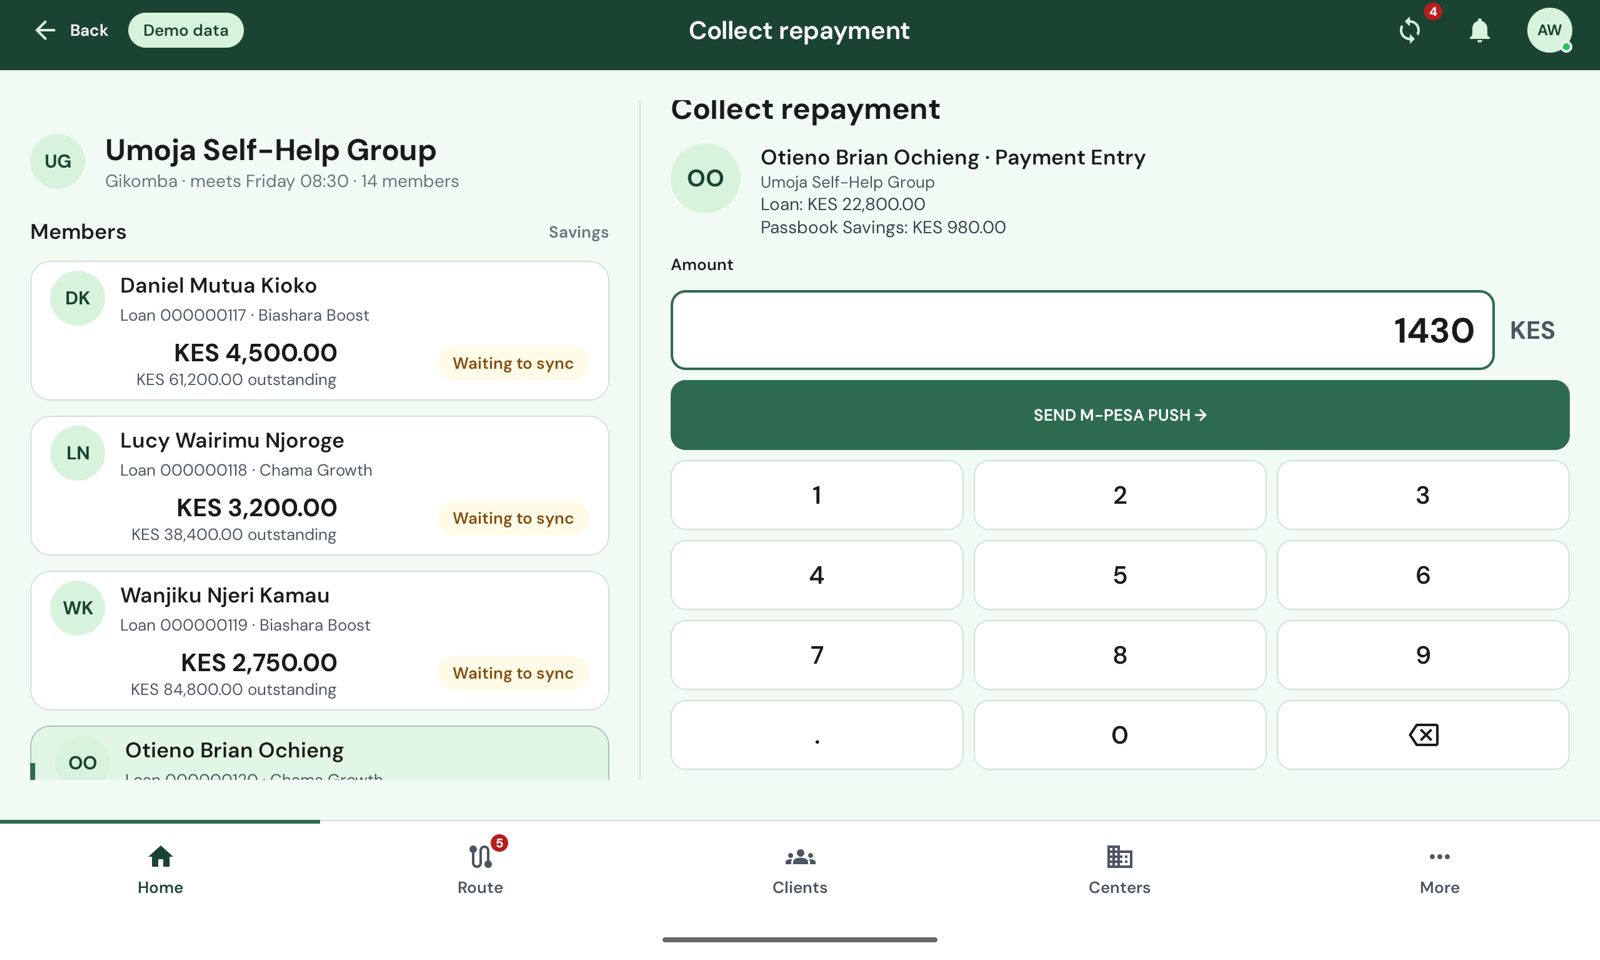
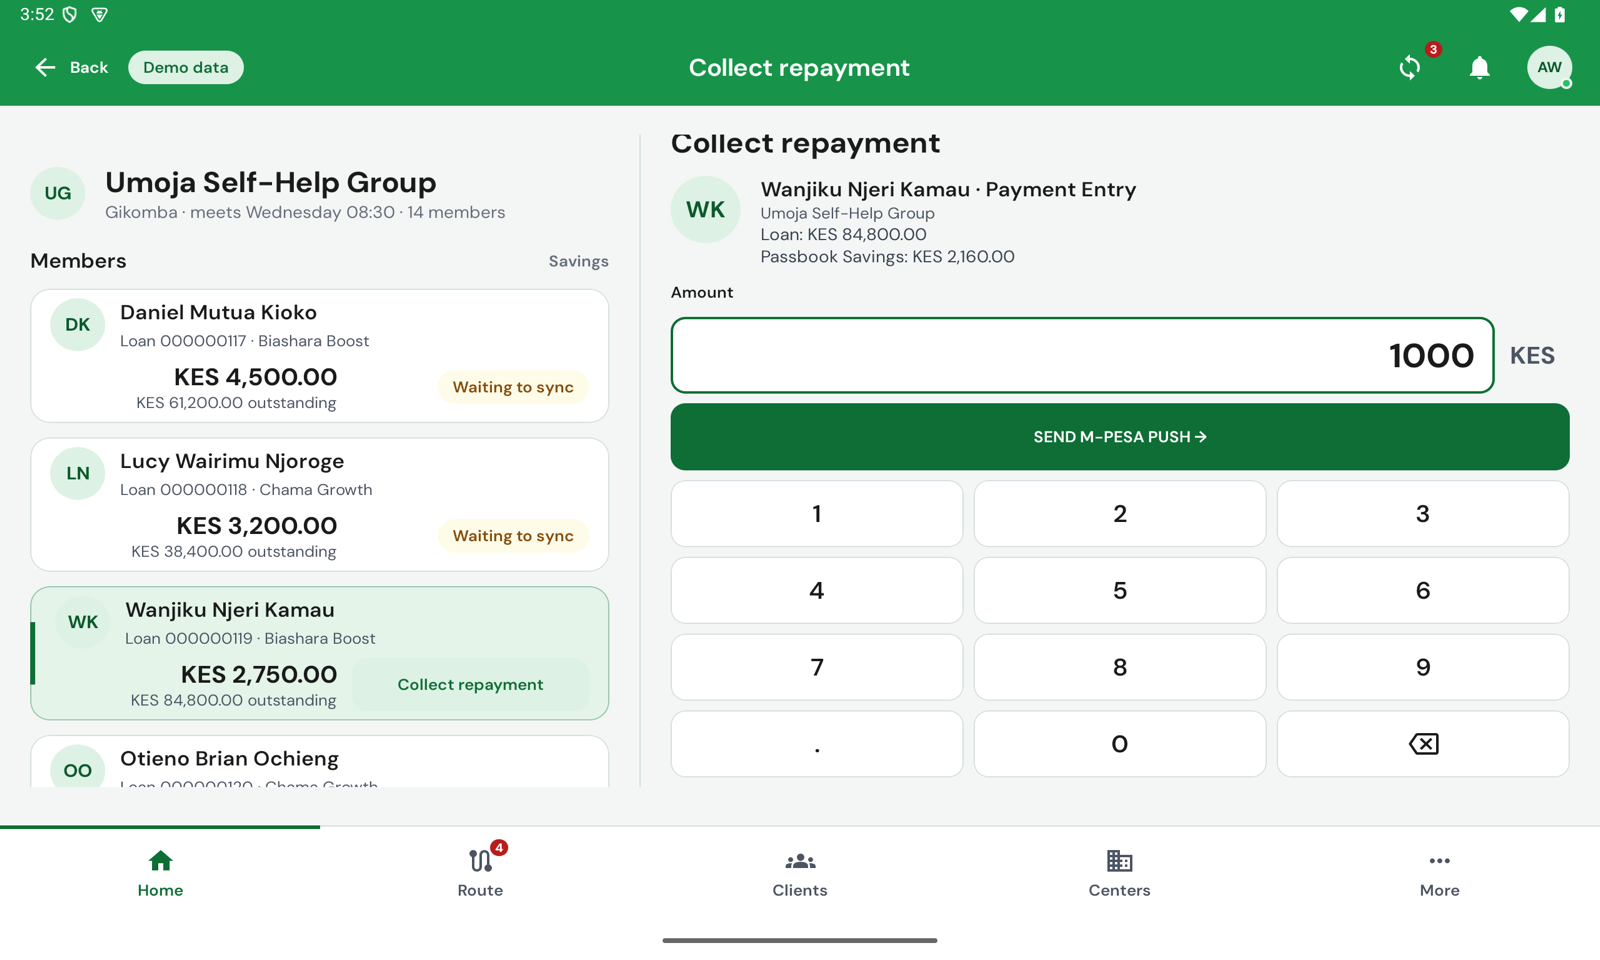
sacco: the screens are captures of the re-themed app (bright-green Launchpad build)
Home, route, the meeting pane and keypad, cash collection, the result dialogs, the
deposit pane, the payment picker and the Sync centre are re-captured on the tablet
emulator with the demo day; the four state cards are the new Roborazzi renders.
The member file, the loan page and the push-already-on-phone inset still show the
earlier build until the walk that reaches them is fixed.

diff --git a/sacco.html b/sacco.html
@@ -332,7 +332,7 @@
                     </div>
 
                     <div class="sf-stop flip" data-animate="fadeInUp">
-                        <div class="sf-shot"><img src="img/products/sacco/meeting-keypad.png" alt="Umoja Self-Help Group meeting: members listed with their loan and what is still due, Otieno's pane open with 1430 — the rest of his instalment — typed on a numeric keypad and SEND M-PESA PUSH directly above the keys" loading="lazy"></div>
+                        <div class="sf-shot"><img src="img/products/sacco/meeting-keypad.png" alt="Umoja Self-Help Group meeting: members listed with their loan and what is still due, Wanjiku's pane open with 1000 typed on a numeric keypad and SEND M-PESA PUSH directly above the keys" loading="lazy"></div>
                         <span class="sf-time">08:30</span>
                         <div class="sf-text">
                             <span class="sf-kicker">The group meeting</span>
